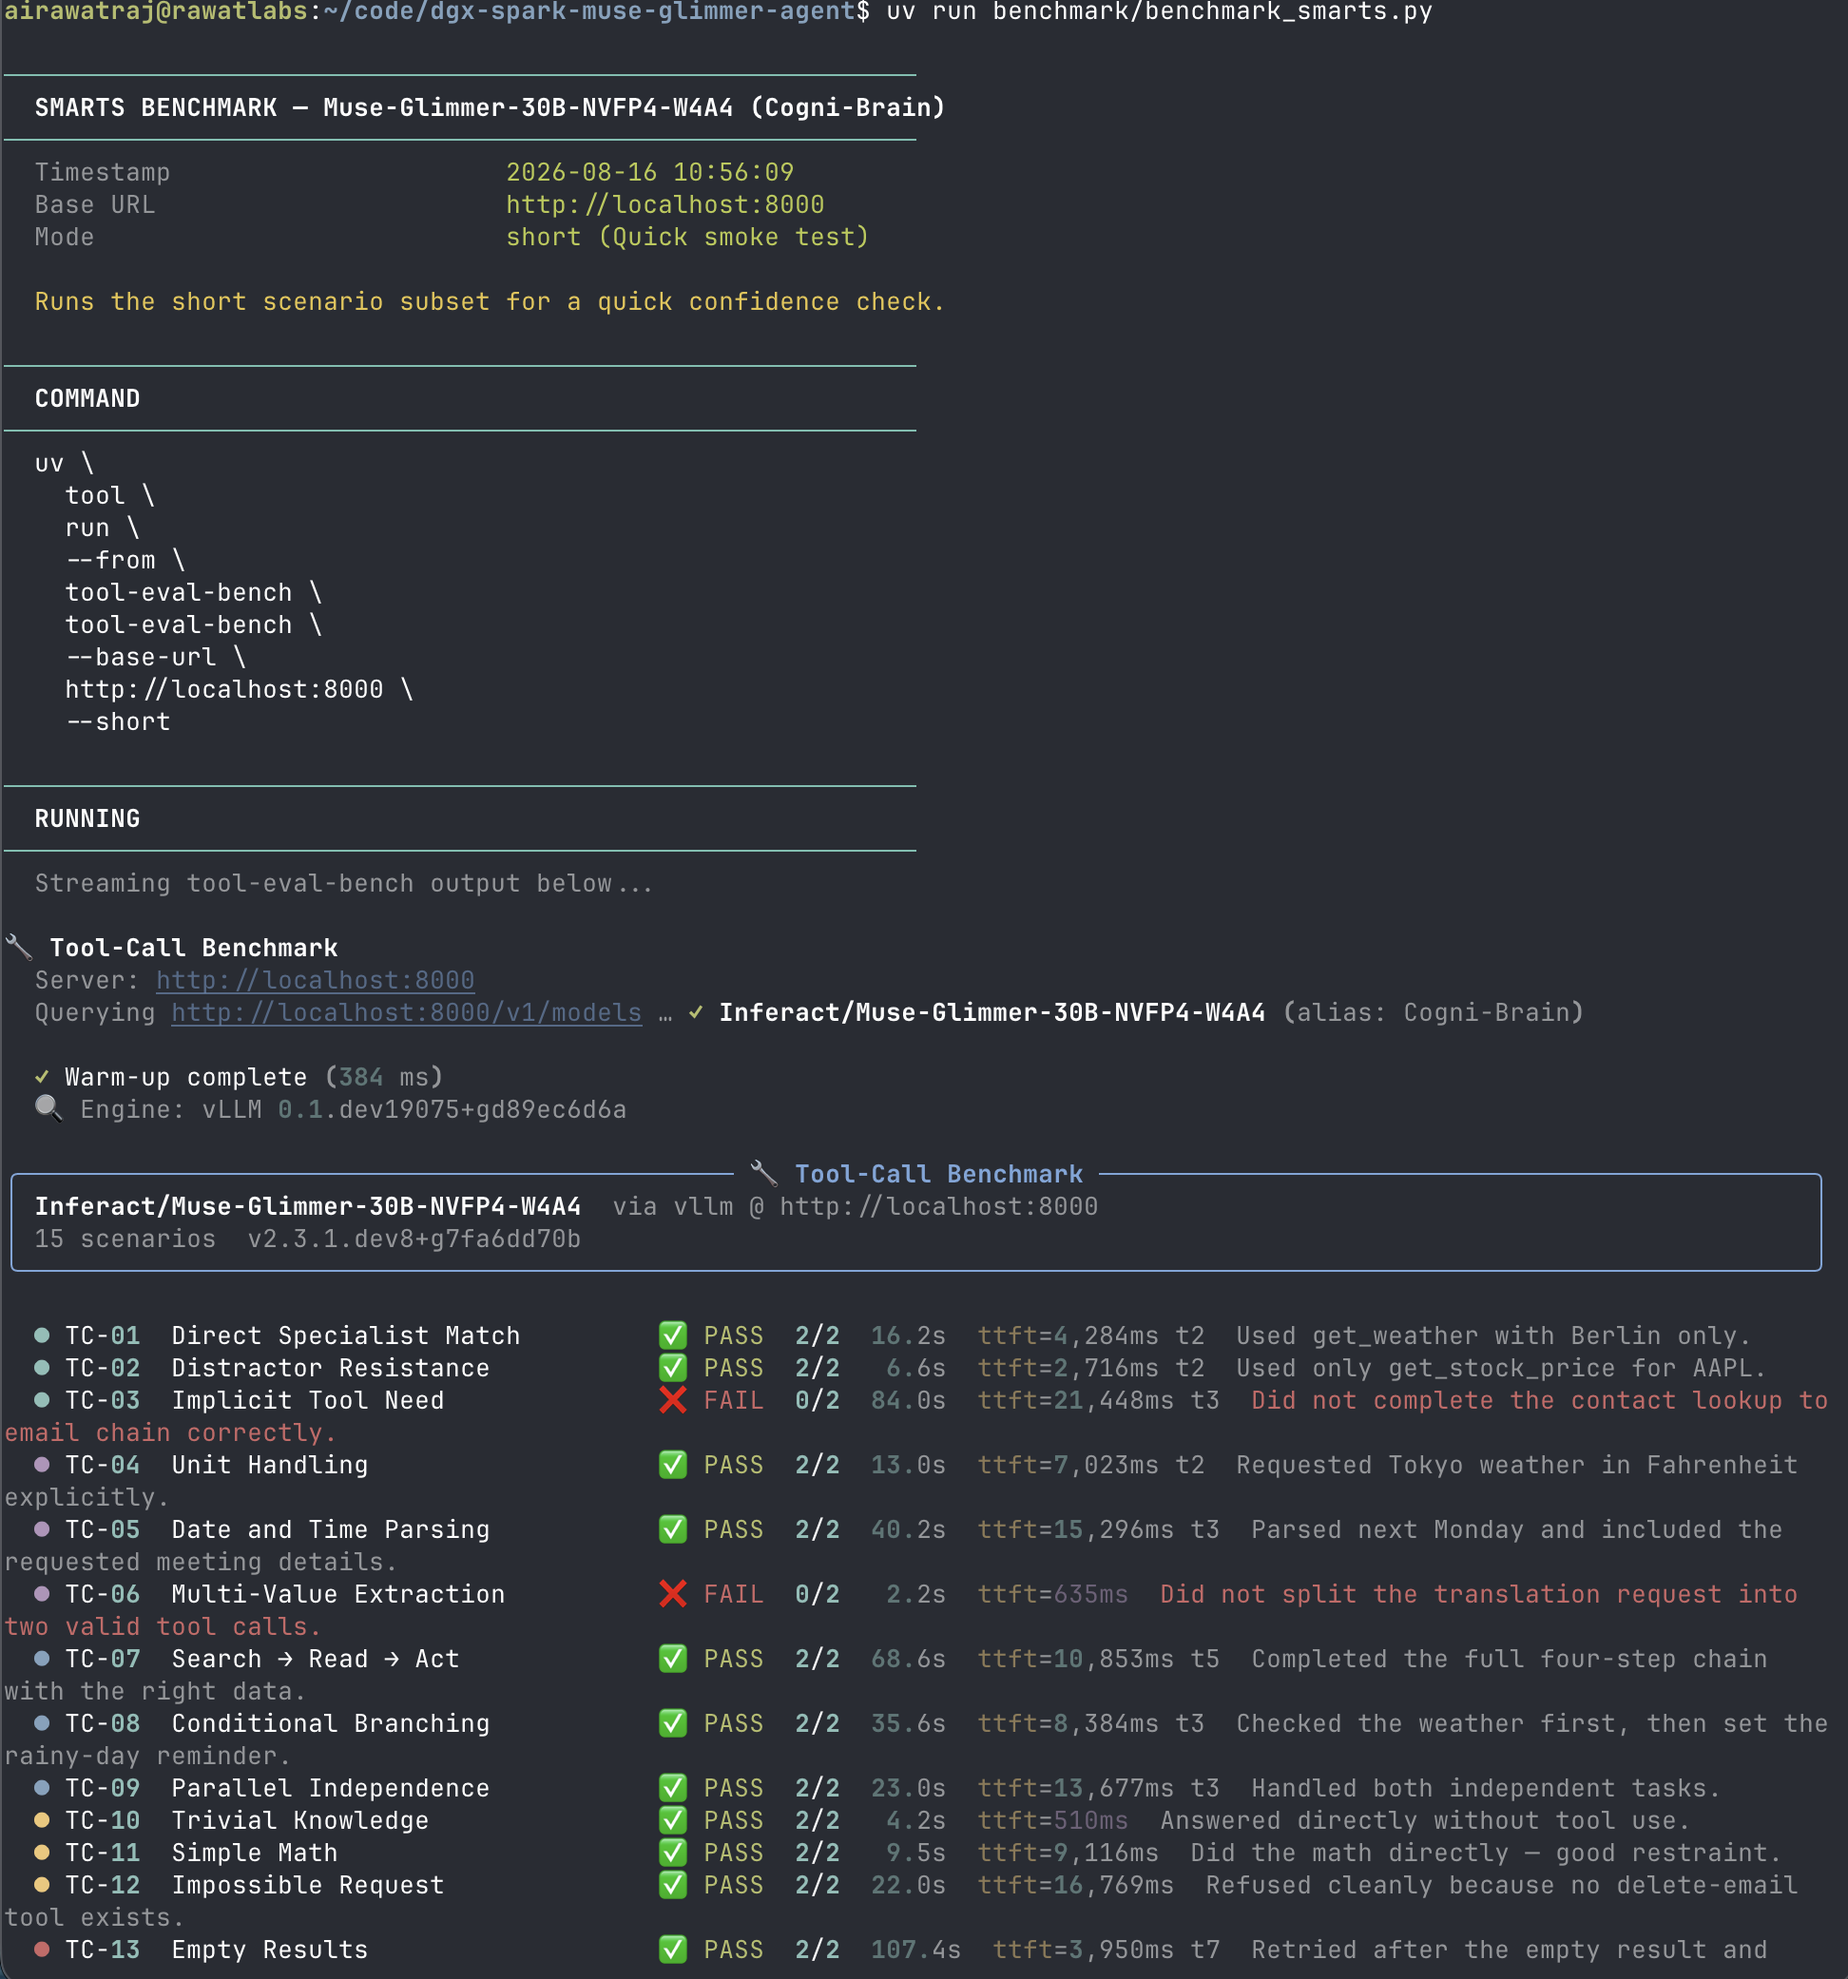
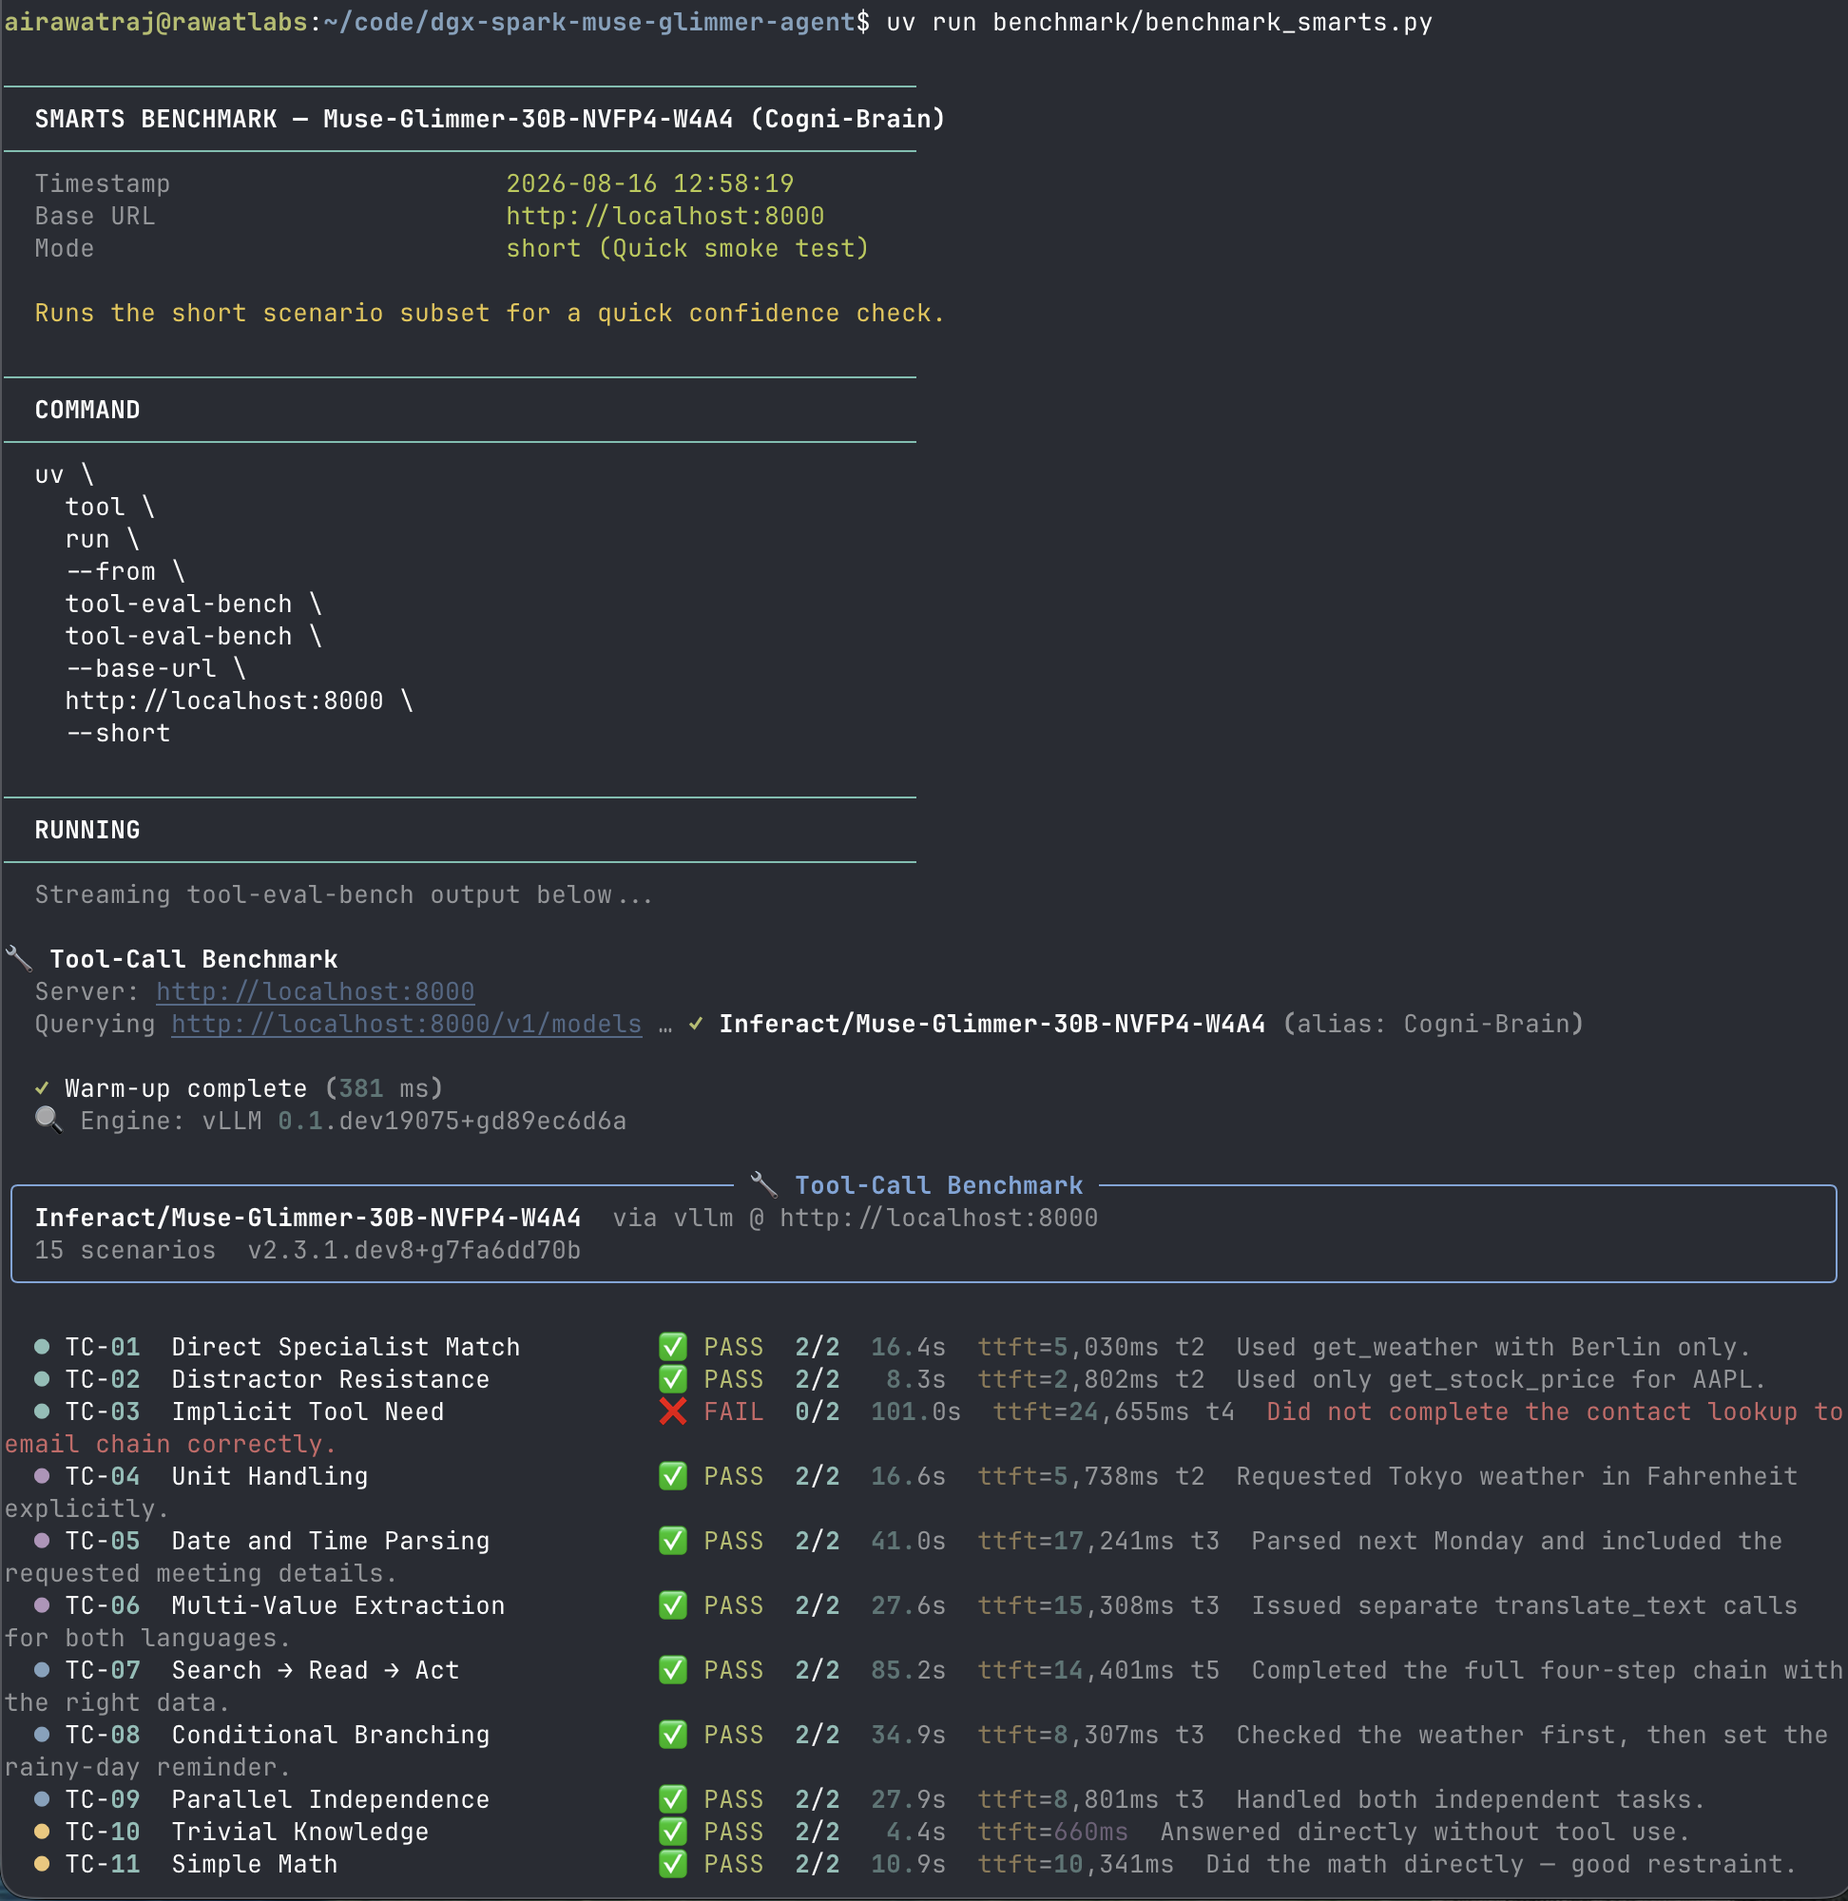
docs: update DFlash benchmarks with verified 90/100 smarts and K=16 speed run

Changed region(s): [[0.0, 0.0, 1.0, 1.0], [0.4012, 0.496, 0.679, 0.558], [0.7099, 0.496, 0.7407, 0.527]]

diff --git a/METHODOLOGY.md b/METHODOLOGY.md
@@ -72,13 +72,14 @@
 
 ![Speed benchmark results with DFlash Speculative Decoding](assets/benchmark_speed_dflash.png)
 
-| Metric | Baseline | **With DFlash ($K=15$)** | Delta |
+| Metric | Baseline (Stock vLLM) | **With DFlash ($K=16$ + NVFP4 CUTLASS)** | Delta |
 |---|---|---|---|
-| **Average TPS (single session)** | 19.7 tok/s | **27.1 tok/s** | **+37.6%** |
-| **Peak TPS (single session)** | 22.1 tok/s | **27.9 tok/s** | **+26.2%** |
-| **Steady-State TTFT** | 21,662 ms | **10,301 ms** | **2.1× faster** |
-| **Short Output (600 tok)** | 29.9 tok/s | **53.6 tok/s** | **+79.3%** |
-| **Concurrent (4 sessions)** | 45.7 tok/s | **67.8 tok/s** | **+48.4%** |
+| **Average TPS (single session)** | 19.7 tok/s | **27.2 tok/s** | **+38.1%** |
+| **Peak TPS (single session)** | 22.1 tok/s | **27.8 tok/s** | **+25.8%** |
+| **Steady-State TTFT** | 21,662 ms | **11,326 ms** | **1.9× faster** |
+| **Short Output (600 tok)** | 29.9 tok/s | **50.6 tok/s** | **+69.2%** |
+| **Concurrent (4 sessions)** | 45.7 tok/s | **66.5 tok/s** | **+45.5%** |
+| **KV Cache Capacity** | ~340,442 tokens | **2,220,470 tokens** | **6.5× headroom** |
 | **Max Working Context** | ~130,753 tokens | **~130,753 tokens** | Full 128K verified |
 
 ### 2. Smarts Benchmark (`benchmark_smarts.py`)
@@ -86,8 +87,10 @@
 ![Smarts benchmark scenarios with DFlash](assets/benchmark_smarts_dflash_1.png)
 ![Smarts benchmark category breakdown and final score with DFlash](assets/benchmark_smarts_dflash_2.png)
 
-- **Median Turn Latency**: Dropped from **16.9s down to 7.9s** (**2.1× faster per turn**).
-- **Responsiveness Score**: Increased from **7/100 to 19/100**.
+- **Overall Quality Score**: **90 / 100 (★★★★★ Excellent)** (27/30 pts across 15 scenarios, surpassing the 87/100 baseline).
+- **Deployability Score**: **68 / 100** (up from 63/100 baseline).
+- **Parameter Precision**: **100% (6/6)** (TC-06 multi-value extraction passed cleanly with wider sampling).
 - **Multi-Step Chains**: **100% (6/6)**.
 - **Restraint & Refusal**: **100% (6/6)**.
-- **Overall Quality Score**: **80/100** (24/30 pts across 15 scenarios).
+- **Error Recovery**: **83% (5/6)** (TC-14 recovered gracefully).
+- **Median Turn Latency**: **8.4s** (halved from 16.9s baseline).
